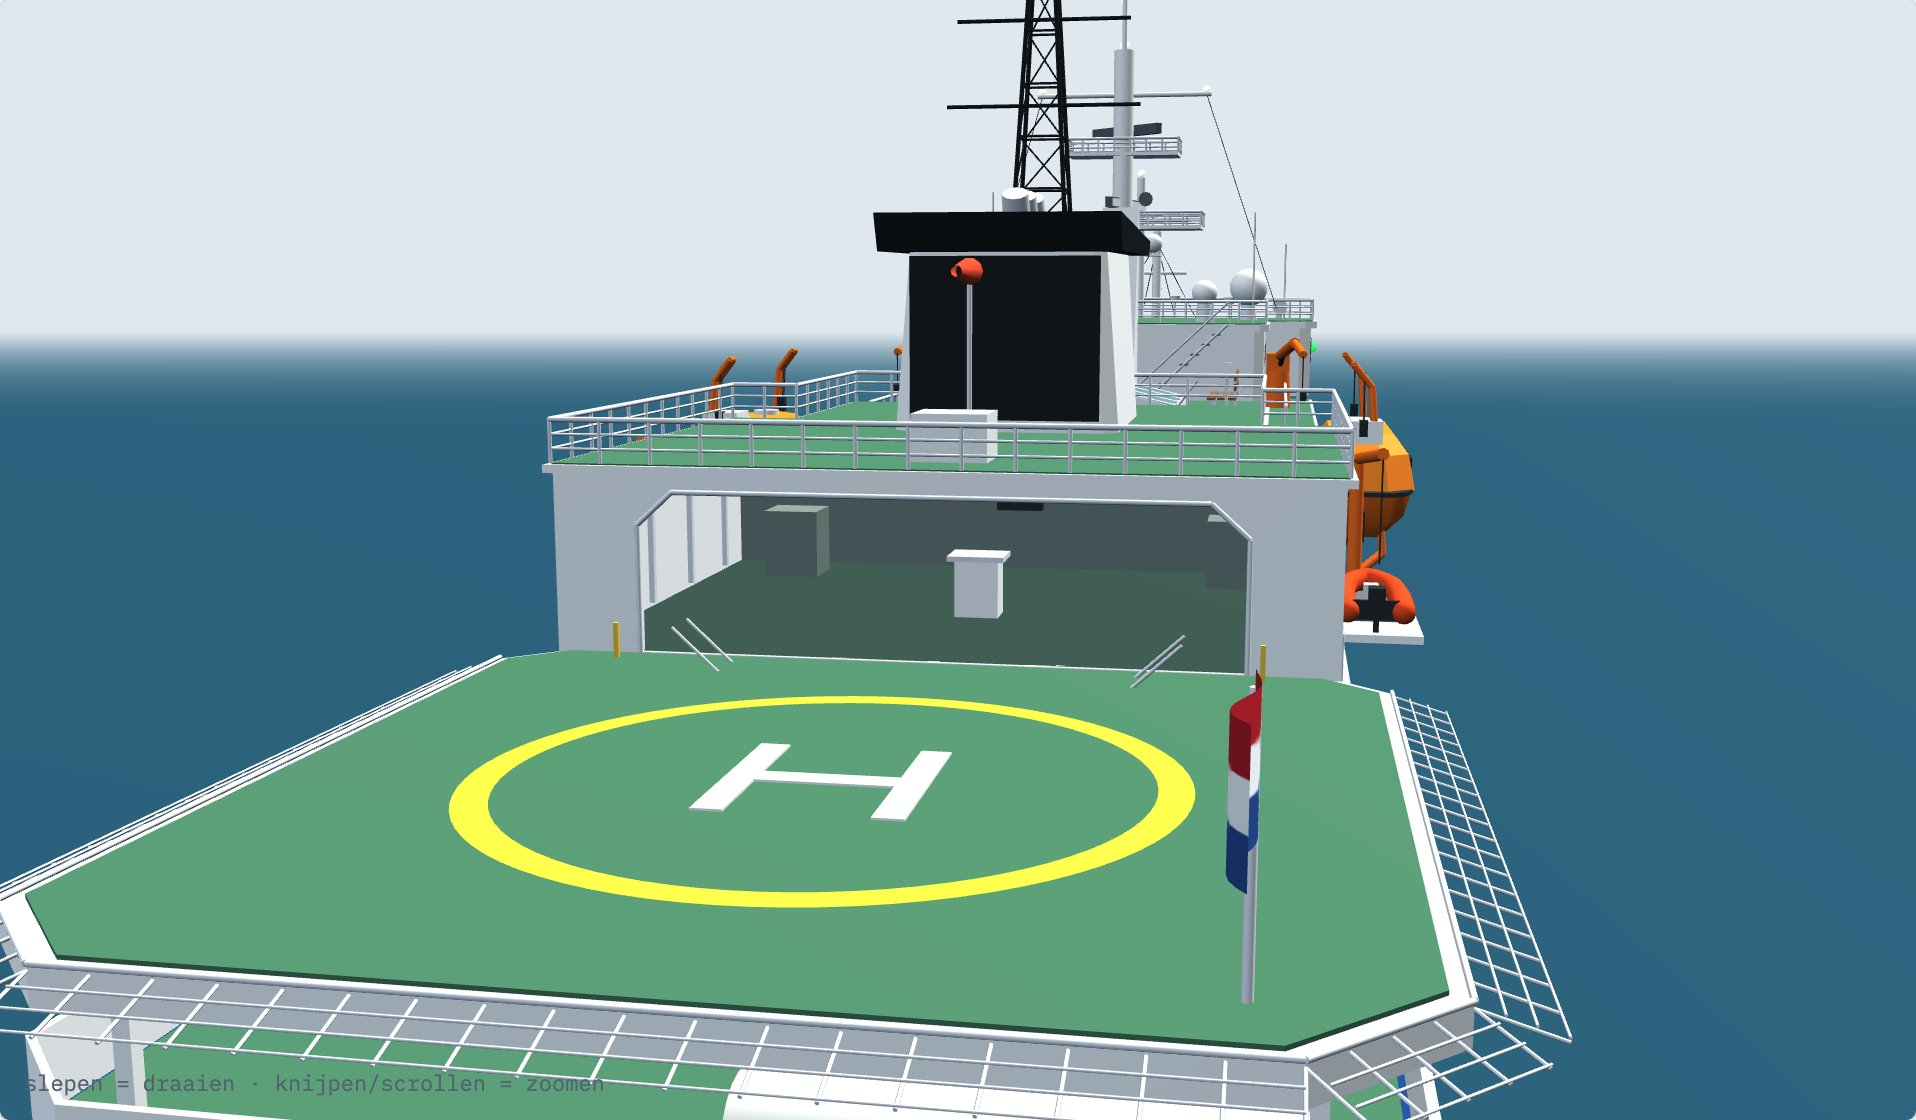
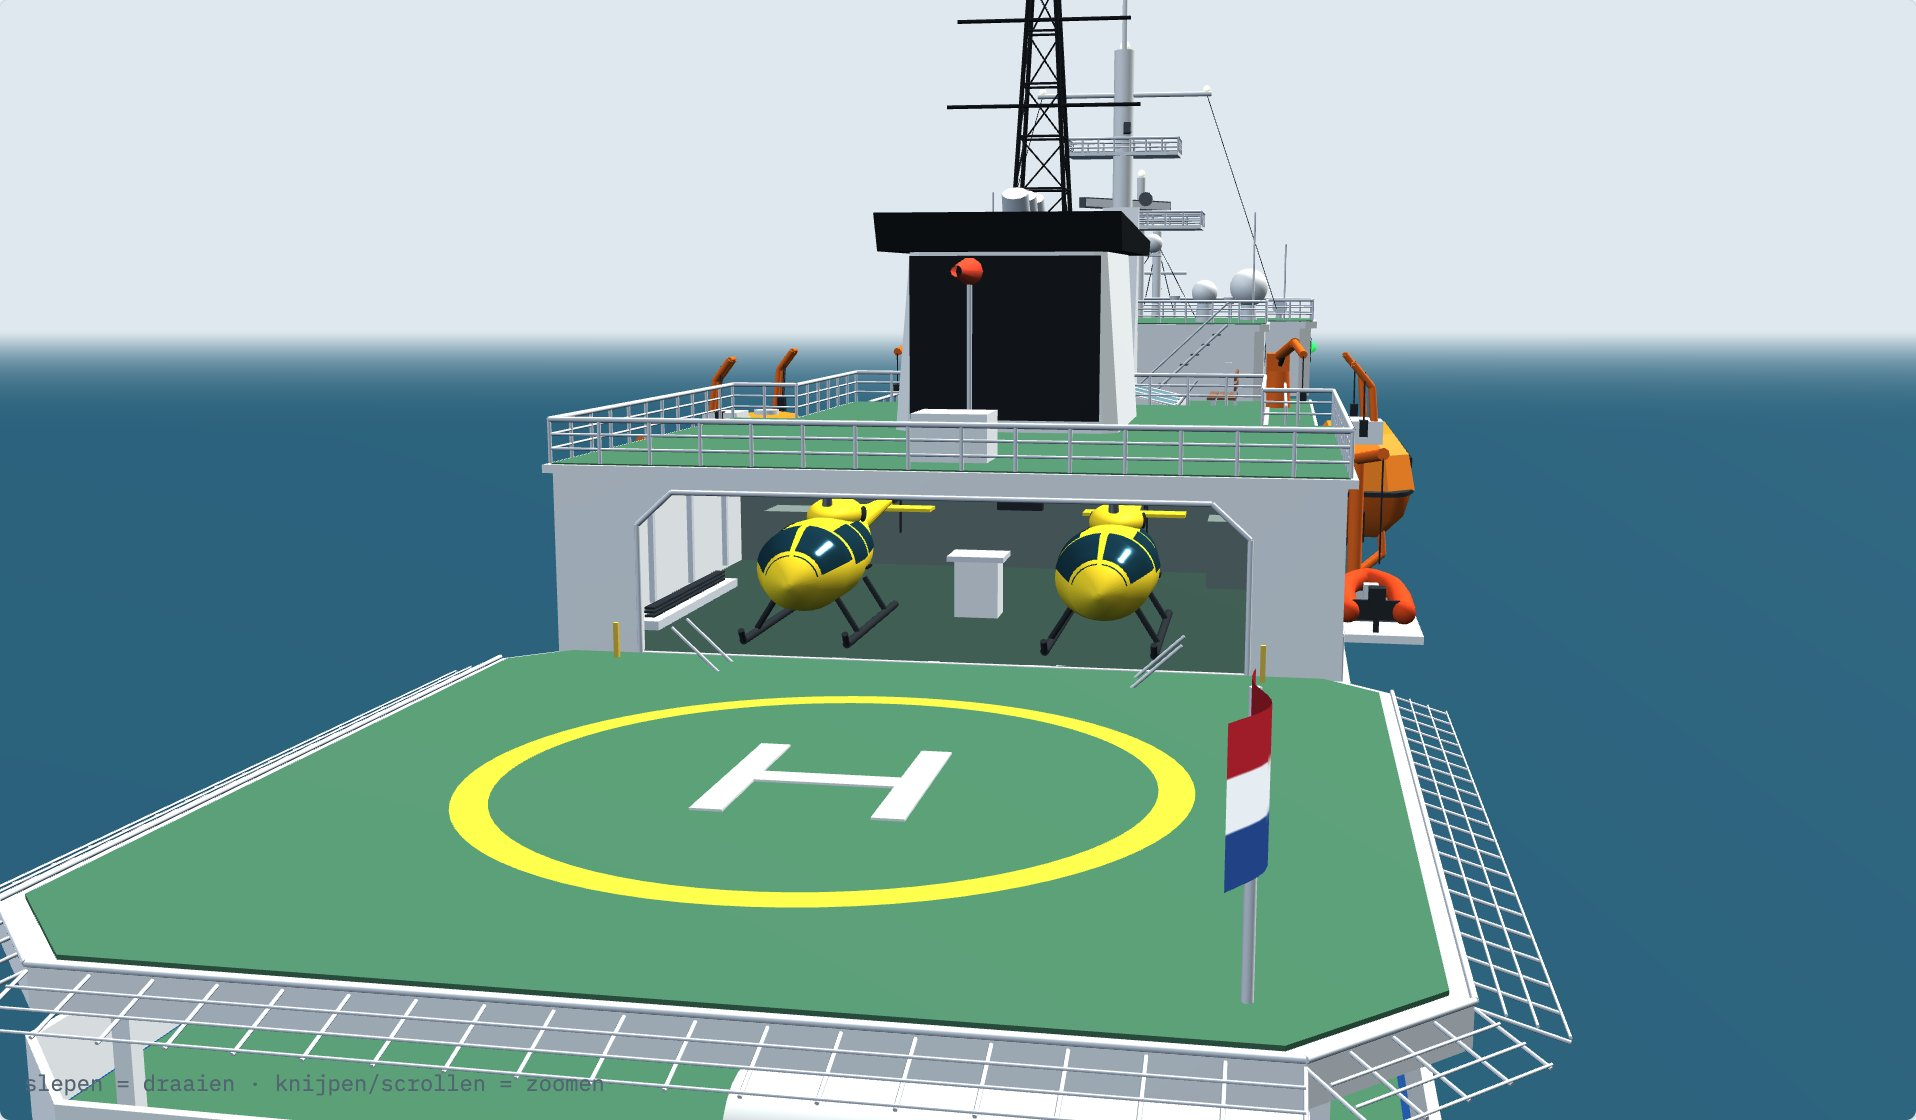
Voeg twee gele helikopters met hangarstalling toe aan de Ortelius
Modelleer twee neutrale AS350/H125-vormstudies en voeg dek-, lucht- en hangarstanden toe. Toon losse hoofdrotorbladen in wandrekken en documenteer de modelmaten en onzekerheden.

Controles: JavaScript-syntaxis, unieke HTML-ids, lokale documentatielinks, browserconsole, visuele weergave, statische begrenzingsboxpassing en git diff --check. Geen printbestanden; fysieke passing blijft onbevestigd.

diff --git a/3d-models/ortelius/index.html b/3d-models/ortelius/index.html
@@ -104,9 +104,11 @@ li:has(input:checked) .name { text-decoration: line-through; color: var(--muted)
       <button data-view="stern" aria-pressed="false">Achterschip</button>
       <button data-view="plan" aria-pressed="false">Bovenaanzicht</button>
       <button data-view="middle" aria-pressed="false">Middenschip</button>
+      <button data-view="helicopter" aria-pressed="false">Helikopter</button>
       <button data-view="hangar" aria-pressed="false">Hangar</button>
     </div>
     <div class="controls" role="group" aria-label="Weergave">
+      <button id="t-helis" aria-pressed="false">Heli’s in hangar</button>
       <button id="t-internals" aria-pressed="false">RC-inbouw</button>
       <button id="t-labels" aria-pressed="true" disabled>Labels</button>
       <button id="t-water" aria-pressed="true">Water</button>
@@ -117,6 +119,7 @@ li:has(input:checked) .name { text-decoration: line-through; color: var(--muted)
     </div>
   </section>
 
+  <p class="note" id="heli-info" hidden>Twee gele helikopters, geïnspireerd op AS350/H125, schaal 1:100. In de hangar zijn de hoofdrotorbladen verwijderd en in rekken geplaatst. Vorm en stallingsruimte zijn modelmatig gecontroleerd; exacte vliegtuigvariant en echte hangarmaten zijn niet bevestigd.</p>
   <aside id="rc-info" class="note" hidden>
     <strong>RC-inbouwvoorstel · centimeters op modelschaal</strong>
     <p>Motor, accu en overige onderdelen zijn neutrale ruimtemodellen. Alleen de maat van de regelaars volgt een fabrikantopgave; de overige maten zijn voorlopige reserveringen. Dit toont de indeling, geen bevestigde passing, motorselectie of aansluitschema.</p>
@@ -989,6 +992,79 @@ li:has(input:checked) .name { text-decoration: line-through; color: var(--muted)
   [rTop, rTopDark, rTopWhite, rTopOrange].forEach(function (r) { top.add(r.build()); });
   fg.add(rBlack.build());
 
+  // ---------- Twee neutrale gele helikopters; AS350/H125 als maat- en vormreferentie ----------
+  // Centimeters bij 1:100: romp 10,93; stabilisator 2,53; hoofdrotor Ø 10,69.
+  var helis=new THREE.Group();helis.name='helikopters';top.add(helis);
+  var heliYellow=new THREE.MeshStandardMaterial({color:'#efce27',roughness:0.52});
+  var heliGlass=new THREE.MeshStandardMaterial({color:'#163a49',roughness:0.17,metalness:0.2,side:THREE.DoubleSide});
+  function helicopter() {
+    var g=new THREE.Group();
+    var sections=[[-3.335,1.35,0.08,0.10],[-3.0,1.42,0.60,0.62],[-2.2,1.52,0.88,1.0],
+      [-1.0,1.55,0.90,1.085],[0.6,1.58,0.78,0.91],[1.7,1.75,0.52,0.59],[2.5,1.9,0.28,0.32]];
+    function section(x) {
+      for(var k=1;k<sections.length;k++)if(x<=sections[k][0]) {
+        var a=sections[k-1],b=sections[k],t=(x-a[0])/(b[0]-a[0]);return [x,a[1]+(b[1]-a[1])*t,a[2]+(b[2]-a[2])*t,a[3]+(b[3]-a[3])*t];
+      }return sections[sections.length-1];
+    }
+    function surface(x,a,offset) {var s=section(x);return [x,s[1]+(s[2]+offset)*Math.cos(a),(s[3]+offset)*Math.sin(a)];}
+    var pos=[],idx=[],N=32;
+    sections.forEach(function(s) {for(var k=0;k<N;k++)pos.push.apply(pos,surface(s[0],k*2*Math.PI/N,0));});
+    for(var j=0;j<sections.length-1;j++)for(var k=0;k<N;k++) {
+      var a=j*N+k,b=j*N+(k+1)%N,c=b+N,d=a+N;idx.push(a,b,c,a,c,d);
+    }
+    [0,sections.length-1].forEach(function(r) {
+      var center=pos.length/3;pos.push(sections[r][0],sections[r][1],0);
+      for(var k=0;k<N;k++){var a=r*N+k,b=r*N+(k+1)%N;if(r===0)idx.push(center,b,a);else idx.push(center,a,b);}
+    });
+    var geo=new THREE.BufferGeometry();geo.setAttribute('position',new THREE.Float32BufferAttribute(pos,3));geo.setIndex(idx);geo.computeVertexNormals();g.add(new THREE.Mesh(geo,heliYellow));
+    function glassPatch(x0,x1,a0,a1) {
+      var p=[],ix=[],nx=8,na=8;
+      for(var i=0;i<=nx;i++)for(var j=0;j<=na;j++)p.push.apply(p,surface(x0+(x1-x0)*i/nx,a0+(a1-a0)*j/na,0.018));
+      for(var i=0;i<nx;i++)for(var j=0;j<na;j++){var a=i*(na+1)+j,b=a+1,c=b+na+1,d=a+na+1;ix.push(a,b,c,a,c,d);}
+      var q=new THREE.BufferGeometry();q.setAttribute('position',new THREE.Float32BufferAttribute(p,3));q.setIndex(ix);q.computeVertexNormals();g.add(new THREE.Mesh(q,heliGlass));
+    }
+    [-1,1].forEach(function(side) {
+      glassPatch(-3.05,-1.85,side*0.08,side*1.35);
+      glassPatch(-1.7,-0.55,side*0.56,side*1.5);glassPatch(-0.38,0.65,side*0.62,side*1.5);
+      g.add(box(0.45,0.05,0.06,blackMat,-0.45,1.35,side*1.04));
+      var intake=new THREE.Mesh(new THREE.SphereGeometry(0.24,16,10),darkMat);intake.scale.set(1,0.75,0.25);intake.position.set(1.05,2.32,side*0.57);g.add(intake);
+    });
+    var cowling=new THREE.Mesh(new THREE.SphereGeometry(1,24,16),heliYellow);cowling.scale.set(1.12,0.39,0.60);cowling.position.set(0.7,2.35,0);g.add(cowling);
+    var boom=new THREE.Mesh(new THREE.CylinderGeometry(0.10,0.36,5.3,20),heliYellow);
+    boom.quaternion.setFromUnitVectors(V(0,1,0),V(5.3,0.15,0).normalize());boom.position.set(4.2,1.93,0);g.add(boom);
+    g.add(sidePanel([[6.3,1.85],[7.595,1.85],[7.3,3.05],[6.9,3.05]],0.13,heliYellow,0));
+    g.add(box(0.72,0.08,2.53,heliYellow,5.8,1.85,0));
+    var exhaust=new THREE.Mesh(new THREE.CylinderGeometry(0.16,0.19,0.65,16),steelMat);exhaust.rotation.z=-Math.PI/2;exhaust.position.set(1.7,2.4,0);g.add(exhaust);
+    var skid=new Rods(darkMat,10);
+    [-1,1].forEach(function(side) {
+      skid.add(V(-2.85,0.09,side*1.12),V(1.9,0.09,side*1.12),0.09);
+      skid.add(V(-2.85,0.09,side*1.12),V(-3.02,0.34,side*1.12),0.07);
+      [-1.85,0.8].forEach(function(x) {skid.add(V(x,0.9,side*0.65),V(x,0.16,side*1.12),0.065);});
+    });g.add(skid.build());
+    var mast=new THREE.Mesh(new THREE.CylinderGeometry(0.095,0.12,0.55,12),steelMat);mast.position.set(0,2.815,0);g.add(mast);
+    var hub=new THREE.Mesh(new THREE.CylinderGeometry(0.22,0.22,0.10,16),darkMat);hub.position.y=3.09;g.add(hub);
+    var blades=new THREE.Group();blades.name='hoofdrotorbladen';g.add(blades);
+    for(var k=0;k<3;k++) {var blade=box(5.10,0.045,0.23,darkMat,0,0,0);blade.geometry.translate(2.795,3.09,0);blade.rotation.y=k*2*Math.PI/3;blades.add(blade);}
+    var tailRotor=new THREE.Group();tailRotor.position.set(6.665,2.03,0.25);g.add(tailRotor);
+    for(var k=0;k<2;k++){var b=box(0.12,1.86,0.04,darkMat,0,0,0);b.rotation.z=k*Math.PI/2;tailRotor.add(b);}
+    g.userData.blades=blades;return g;
+  }
+  var helicopterA=helicopter(),helicopterB=helicopter();helicopterA.name='gele-heli-1';helicopterB.name='gele-heli-2';helis.add(helicopterA,helicopterB);
+  var bladeRacks=new THREE.Group();bladeRacks.name='rotorbladenrekken';bladeRacks.visible=false;top.add(bladeRacks);
+  [-1,1].forEach(function(side) {
+    bladeRacks.add(box(5.8,0.2,0.65,greyMat,22.4,HD+0.18,side*6.9));
+    for(var j=0;j<3;j++)bladeRacks.add(box(5.1,0.045,0.23,darkMat,22.4,HD+0.32+j*0.09,side*6.9));
+  });
+  // De losse werkbok stond op de middenlijn; beide toestellen staan ernaast.
+  function positionHelicopters(stowed) {
+    [helicopterA,helicopterB].forEach(function(h,i) {
+      h.userData.blades.visible=!stowed;
+      if(stowed){h.position.set(21.3,HD+0.06,i===0?-3.2:3.2);h.rotation.set(0,0,0);}
+      else {h.position.set(8.3,i===0?HD+0.06:29,i===0?0:-15);h.rotation.set(0,i===0?Math.PI:Math.PI+0.2,0);}
+    });bladeRacks.visible=stowed;
+  }
+  positionHelicopters(false);
+
   // ---------- RC-inbouw: ruimtereserveringen, geen product-CAD of printgeometrie ----------
   var rc = new THREE.Group();rc.name='RC-inbouw';rc.visible=false;ship.add(rc);
   var rcLabels=new THREE.Group();rcLabels.name='RC-labels';rc.add(rcLabels);
@@ -1103,10 +1179,14 @@ li:has(input:checked) .name { text-decoration: line-through; color: var(--muted)
       savedVisibility.forEach(function(pair) {pair[0].visible=pair[1];});rc.visible=false;rcContext.visible=false;water.visible=waterBeforeRC;document.getElementById('t-water').setAttribute('aria-pressed',String(waterBeforeRC));activeView='three';
       document.querySelectorAll('[data-view]').forEach(function(b) {b.setAttribute('aria-pressed',String(b.dataset.view==='three'));});
     }
-    ['t-water','t-seams','t-lift','t-night'].forEach(function(id) {document.getElementById(id).disabled=on;});
+    ['t-water','t-seams','t-lift','t-night','t-helis'].forEach(function(id) {document.getElementById(id).disabled=on;});
     document.getElementById('t-labels').disabled=!on;document.getElementById('rc-info').hidden=!on;
     var damping=controls.enableDamping;controls.enableDamping=false;controls.update();positionView();controls.enableDamping=damping;
   }
+  var heliButton=bind('t-helis',function(on) {
+    positionHelicopters(on);document.getElementById('heli-info').hidden=!on;
+    document.querySelector(on?'[data-view="hangar"]':'[data-view="helicopter"]').click();
+  });
   var rcButton=bind('t-internals',showRC);
   bind('t-labels',function(on) {rcLabels.visible=on;});
   bind('t-water', function (on) { water.visible = on; });
@@ -1120,22 +1200,23 @@ li:has(input:checked) .name { text-decoration: line-through; color: var(--muted)
   if (reduce) spinBtn.setAttribute('aria-pressed', 'false');
   controls.addEventListener('start', function () { if (controls.autoRotate) { controls.autoRotate = false; spinBtn.setAttribute('aria-pressed', 'false'); } });
 
-  var viewDirections = {three:[0.8,0.42,1],starboard:[0,0.09,1],port:[0,0.09,-1],bow:[1,0.08,0],stern:[-1,0.38,0.28],plan:[0,1,0.001],middle:[0.12,0.18,-1],hangar:[-1,0.16,0.18],internals:[0.35,1,0.7]};
+  var viewDirections = {three:[0.8,0.42,1],starboard:[0,0.09,1],port:[0,0.09,-1],bow:[1,0.08,0],stern:[-1,0.38,0.28],plan:[0,1,0.001],middle:[0.12,0.18,-1],hangar:[-1,0.16,0.18],internals:[0.35,1,0.7],helicopter:[0.6,0.35,1]};
   var activeView = 'three';
   function positionView() {
     var d = new THREE.Vector3().fromArray(viewDirections[activeView]).normalize();
-    var detailView = activeView === 'middle' || activeView === 'hangar';
+    var detailView = activeView === 'middle' || activeView === 'hangar' || activeView === 'helicopter';
     var endView = activeView === 'bow' || activeView === 'stern';
-    var minDistance = detailView ? 38 : endView ? 78 : 125;
-    var halfSpan = detailView ? 15 : endView ? 24 : 53;
+    var minDistance = activeView === 'helicopter' ? 33 : detailView ? 38 : endView ? 78 : 125;
+    var halfSpan = activeView === 'helicopter' ? 11 : detailView ? 15 : endView ? 24 : 53;
     var distance = Math.max(minDistance, halfSpan / (Math.tan(camera.fov*Math.PI/360)*camera.aspect));
-    controls.target.set(activeView === 'middle' ? 51.8 : activeView === 'hangar' ? 20 : activeView === 'bow' ? 68 : activeView === 'stern' ? 22 : 45,activeView === 'hangar' ? 18.5 : activeView === 'middle' ? 18.3 : activeView === 'internals' ? 4.5 : 17,0);
+    controls.target.set(activeView === 'helicopter' ? 8.3 : activeView === 'middle' ? 51.8 : activeView === 'hangar' ? 20 : activeView === 'bow' ? 68 : activeView === 'stern' ? 22 : 45,activeView === 'helicopter' ? 18.4 : activeView === 'hangar' ? 18.5 : activeView === 'middle' ? 18.3 : activeView === 'internals' ? 4.5 : 17,0);
     camera.position.copy(controls.target).addScaledVector(d,distance);
     controls.update();
   }
   document.querySelectorAll('[data-view]').forEach(function(button) {
     button.addEventListener('click',function() {
       if(rcButton.getAttribute('aria-pressed')==='true') {rcButton.setAttribute('aria-pressed','false');showRC(false);}
+      if(button.dataset.view==='helicopter'){positionHelicopters(false);heliButton.setAttribute('aria-pressed','false');document.getElementById('heli-info').hidden=true;}
       activeView=button.dataset.view; controls.autoRotate=false; spinBtn.setAttribute('aria-pressed','false');
       document.querySelectorAll('[data-view]').forEach(function(b) {b.setAttribute('aria-pressed',String(b===button));});
       // Eerst de opgebouwde demping wegwerken voor een exact vast aanzicht.
@@ -1153,6 +1234,7 @@ li:has(input:checked) .name { text-decoration: line-through; color: var(--muted)
   }
   new ResizeObserver(resize).observe(cv.parentElement); resize();
   if(new URLSearchParams(location.search).get('rc')==='1')rcButton.click();
+  if(new URLSearchParams(location.search).get('helis')==='hangar')heliButton.click();
 
   (function loop() {
     requestAnimationFrame(loop);

diff --git a/3d-models/ortelius/ONTWERP.md b/3d-models/ortelius/ONTWERP.md
@@ -205,3 +205,32 @@ gecontroleerd. De bedrading is geen elektrisch schema.
 
 Bron van de regelaarmaat: [Hobbywing-handleiding](https://www.hobbywing.com/en/uploads/file/20240315/4806bbdbab8eb9fea0bb26da87d81b00.pdf).
 De bestaande productnamen krijgen in het model geen logo of merkopschrift.
+
+## Gele helikopters en hangarpassing
+
+De twee helikopters zijn neutrale fotogebaseerde AS350/H125-vormstudies op
+1:100, geen exact geïdentificeerde of gecertificeerde vliegtuigmodellen.
+De [Airbus-maattekening](https://www.airbus.com/sites/g/files/jlcbta136/files/2025-01/master-ground-rescue-booklet-h125.pdf)
+geeft romplengte 10,93 m, rompbreedte 2,17 m, stabilisatorbreedte 2,53 m en
+rotordiameter 10,69 m; dezelfde getallen zijn centimeters in het model.
+De modelhoogte tot de rotornaaf is 3,14 cm. Uitvoering en kleurdetails zijn
+vereenvoudigd en zonder registraties of logo's.
+
+In de stallingsstand liggen de hoofdrotorbladen los in twee rekken langs de
+hangarwanden. Er is geen fictief vouwmechanisme gemodelleerd.
+[Oceanwide beschrijft bladverwijdering vóór stalling](https://oceanwide-expeditions.com/trip-log/otl22-24-trip-log-weddell-sea-in-search-of-the-emperor-penguin-incl-helicopters).
+
+Beide helikopters hebben dezelfde maat: oorsprong x 21,3; z −3,2 / +3,2;
+landingsvlak y = 16,81. Zonder hoofdrotorbladen beslaan ze ongeveer x 17,965
+tot 28,895, y 16,81 tot 19,95 en z −4,465 tot −1,935 / +1,935 tot +4,465.
+De opening is op deze plaatsen vrij tot y 20,15; de modelmarge erboven is
+dus circa 0,20 cm (2 mm). De achterwand begint bij x 29,535. De modellen
+kruisen elkaar en de bestaande hangarinrichting niet volgens de uitgevoerde
+begrenzingsboxcontrole. Dit controleert statische modelruimte, geen echte
+hangarmaten, rij-/draaibeweging of printtoleranties.
+
+In de buitenstand staat één toestel met rotorbladen op het helidek en is
+het andere op enige afstand in de lucht geplaatst, naar de referentiefoto.
+De knoppen **Helikopter** en **Heli’s in hangar** geven detailweergaven.
+De functie `helicopter()` maakt beide identieke modellen;
+`positionHelicopters()` wisselt tussen buiten- en stallingsstand.

diff --git a/3d-models/ortelius/README.md b/3d-models/ortelius/README.md
@@ -24,7 +24,28 @@ Het model begint stil. Met **Water** uit zie je het geschatte onderwaterschip.
 | [`beelden/render.jpg`](beelden/render.jpg) | Browserweergave van het hele model |
 | [`beelden/middenschip-v3.jpg`](beelden/middenschip-v3.jpg) | Detail van de open galerijen en dekuitrusting |
 | [`beelden/hangar-v3.jpg`](beelden/hangar-v3.jpg) | Detail van de open hangar |
+| [`beelden/helikopter-detail.jpg`](beelden/helikopter-detail.jpg) | Gele helikopter op het helidek |
 | `cad/`, `print/` | Gereserveerd voor de latere CAD- en printuitwerking |
+
+## Twee gele helikopters
+
+Twee neutrale modellen met gele romp, cockpitramen, staartboom, stabilisator,
+landingsski's en rotoren. Ze zijn geïnspireerd op de lokale foto's en de
+AS350/H125-vorm; de exacte vliegtuigvariant op de foto's is niet bevestigd.
+De hoofdmaten volgen de [Airbus-maattekening](https://www.airbus.com/sites/g/files/jlcbta136/files/2025-01/master-ground-rescue-booklet-h125.pdf):
+romplengte 10,93 cm, stabilisatorbreedte 2,53 cm en rotor Ø 10,69 cm op 1:100.
+De gekozen modelhoogte is circa 3,14 cm.
+
+Normaal staat één toestel op het helidek en hangt het andere naast het schip.
+**Helikopter** zoomt in op het toestel op het dek. Met **Heli’s in hangar**
+worden ze naast elkaar gestald en worden de hoofdrotorbladen apart in rekken
+gelegd. Dit volgt het principe beschreven in het
+[Oceanwide-logboek](https://oceanwide-expeditions.com/trip-log/otl22-24-trip-log-weddell-sea-in-search-of-the-emperor-penguin-incl-helicopters).
+
+De stallingsstand is tegen de geometrie van deze modelhangar gecontroleerd.
+Boven de rotornaaf blijft circa 2 mm tot de rechte bovenkant van de ingang.
+Dit is geen bevestiging van echte hangarmaten of fysieke printpassing.
+Dit is alleen het 3D-model; de printuitwerking volgt later.
 
 ## RC-inbouw bekijken
 

diff --git a/3d-models/ortelius/START-HIER.md b/3d-models/ortelius/START-HIER.md
@@ -17,6 +17,11 @@ De viewer bevat ook **RC-inbouw**: motor, accu, as, roerservo, twee regelaars,
 ontvanger en een boegschroef als ruimtereserveringen. Zie de RC-secties in
 README en ONTWERP voor maten en onzekerheden. Het is geen gevalideerde inbouw.
 
+Er zijn ook twee gele helikoptervormstudies (AS350/H125 als referentie),
+met een helidek-/luchtstand en een gecontroleerde modelstalling naast
+elkaar zonder hoofdrotorbladen. Gebruik **Heli’s in hangar** en
+**Helikopter**; zie README/ONTWERP voor maten en beperkingen.
+
 ## Bestanden om te lezen
 
 1. [`README.md`](README.md): status, hoofdmaten, bronnen en voorbeeldbeeld.
